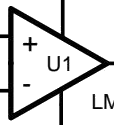
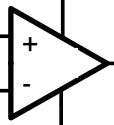
extract_single 支持擦除元件小图文字，处理 amp_3pin~l 图片

diff --git a/data_pipeline/extract_single.py b/data_pipeline/extract_single.py
@@ -2,19 +2,29 @@ import os
 os.environ["ORT_DISABLE_CUDA"] = "1"
 import json
 from PIL import Image, ImageDraw
-from rembg import remove
-import vtracer
 from tqdm import tqdm
 from pathlib import Path
 
+# rembg / vtracer 可选导入：默认 USE_THRESHOLD_BG=True 用不到 rembg，
+# vtracer 仅在注释掉的 SVG 代码里用到。在缺这些包的环境（如 .venv_ocr）
+# 下避免顶部 import 崩溃。
+try:
+    from rembg import remove
+except ImportError:
+    remove = None
+try:
+    import vtracer
+except ImportError:
+    vtracer = None
+
 # ==================== 单个提取配置 ====================
-target_comp_name = "0009_∅124"
+target_comp_name = "0138_U10.2"
 
 # ==================== 修复 bbox 相对坐标 ====================
 fix_bbox_left_padding     =  5
 fix_bbox_right_padding    =  5
-fix_bbox_down_padding     =  0
-fix_bbox_up_padding       =  0
+fix_bbox_down_padding     =  10
+fix_bbox_up_padding       =  10
 
 # ==================== 修复 pin 相对坐标 ====================
 fix_pin = {
@@ -25,6 +35,11 @@ fix_pin = {
 
 # 是否启动图形学去背景，否为 AI，精度更高速度更慢，优先推荐 True
 USE_THRESHOLD_BG = True
+
+# 是否擦除元件小图上的文字（位号/引脚号等，PaddleOCR 检测后置透明）
+REMOVE_TEXT = True
+# OCR 置信度阈值：低于此值的检测框不擦（避免把元件图形误当文字擦掉）
+TEXT_CONF_THR = 0.6
 
 # 引脚外扩边距：裁剪PNG时，在最外侧引脚外额外保留的像素，建议 1~5px
 CROP_MARGIN = 2
@@ -38,6 +53,107 @@ DRAW_PIN_AND_BBOX = True
 
 data_dir = "data/Dataset200/200_train_cases"
 output_root = "outputs/svg"
+
+_OCR_ENGINE = None
+
+def _get_ocr():
+    """懒加载 PaddleOCR（只检测文字框，用于定位后擦除）。兼容 2.x/3.x。"""
+    global _OCR_ENGINE
+    if _OCR_ENGINE is None:
+        from paddleocr import PaddleOCR
+        try:
+            # 3.x 参数
+            _OCR_ENGINE = PaddleOCR(
+                lang="en", device="gpu:0",
+                use_doc_orientation_classify=False,
+                use_doc_unwarping=False,
+                use_textline_orientation=False,
+            )
+        except (TypeError, ValueError):
+            # 2.x 参数
+            _OCR_ENGINE = PaddleOCR(lang="en", use_gpu=True, use_angle_cls=True, show_log=False)
+    return _OCR_ENGINE
+
+
+def _ocr_boxes(ocr, arr):
+    """对图像跑 OCR，返回 [(poly, score), ...]，兼容 paddleocr 2.x/3.x。
+
+    3.x: ocr.predict(arr) -> r[0] = {'rec_polys': [...], 'rec_scores': [...]}
+    2.x: ocr.ocr(arr, cls=True) -> [[box, text, score], ...] 或 [None]
+    """
+    pairs = []
+    # 新版 3.x
+    if hasattr(ocr, "predict"):
+        try:
+            r = ocr.predict(arr)
+            page = r[0] if r else {}
+            polys = list(page.get("rec_polys") or [])
+            scores = list(page.get("rec_scores") or [])
+            return [(poly, score) for poly, score in zip(polys, scores) if score is not None]
+        except Exception:
+            pass
+    # 旧版 2.x
+    try:
+        result = ocr.ocr(arr, cls=True)
+        for page in result or []:
+            if not page:
+                continue
+            for item in page:
+                # item = [box(poly), text, score]
+                if isinstance(item, (list, tuple)) and len(item) >= 3:
+                    pairs.append((item[0], item[2]))
+    except Exception:
+        pass
+    return pairs
+
+
+def remove_text(img, conf_thr=TEXT_CONF_THR, pad=1, max_area_ratio=0.6):
+    """擦除元件小图上的文字（位号/引脚号等）。
+
+    PaddleOCR 检测文字框（置信度 >= conf_thr），把框内（外扩 pad 像素）
+    的 alpha 置 0。透明区域贴白底后再送检，避免透明背景干扰检测。
+
+    面积上限：检测框面积占整图比例 > max_area_ratio 时跳过——元件符号图形
+    常被 OCR 误检为一个大「文字」（占图 100%），若不限制会把整个元件擦掉。
+    :param img: PIL RGBA（已去背景）
+    """
+    import cv2
+    import numpy as np
+    ocr = _get_ocr()
+    # 透明贴白底供 OCR 检测
+    bg = Image.new("RGB", img.size, (255, 255, 255))
+    bg.paste(img, mask=img.split()[3])
+    arr = cv2.cvtColor(np.asarray(bg), cv2.COLOR_RGB2BGR)
+    boxes = _ocr_boxes(ocr, arr)
+    if not boxes:
+        return img
+    arr_rgba = np.asarray(img).copy()
+    h, w = arr_rgba.shape[:2]
+    total_area = float(h * w) or 1.0
+    n_erased = 0
+    for poly, score in boxes:
+        try:
+            if float(score) < conf_thr:
+                continue
+        except (TypeError, ValueError):
+            continue
+        xs = [float(p[0]) for p in poly]
+        ys = [float(p[1]) for p in poly]
+        x1 = max(0, int(min(xs)) - pad)
+        y1 = max(0, int(min(ys)) - pad)
+        x2 = min(w, int(max(xs)) + 1 + pad)
+        y2 = min(h, int(max(ys)) + 1 + pad)
+        if x2 <= x1 or y2 <= y1:
+            continue
+        # 面积上限：过大的框是元件符号误检，跳过
+        if (x2 - x1) * (y2 - y1) > max_area_ratio * total_area:
+            continue
+        arr_rgba[y1:y2, x1:x2, 3] = 0  # alpha 置 0 = 擦除
+        n_erased += 1
+    if n_erased:
+        print(f"    [去文字] 擦除 {n_erased} 处")
+    return Image.fromarray(arr_rgba)
+
 
 def png2svg(img, use_threshold_bg=USE_THRESHOLD_BG, gray_threshold=230):
     """
@@ -58,6 +174,9 @@ def png2svg(img, use_threshold_bg=USE_THRESHOLD_BG, gray_threshold=230):
     else:
         # 原有rembg AI抠除背景
         img_nobg = remove(img)
+    # 去文字：OCR 检测位号/引脚号并擦除（alpha=0）
+    if REMOVE_TEXT:
+        img_nobg = remove_text(img_nobg)
     img_nobg.save(OUTPUT_TRANSPARENT_PNG)
     # ===== 后面保留你原来注释掉的vtracer矢量化代码不变 =====
     # 2. 将透明PNG矢量化为SVG

diff --git a/data_pipeline/remove_text_batch.py b/data_pipeline/remove_text_batch.py
@@ -1,0 +1,138 @@
+"""对 base_comps 中 amp_3pin ~ l 已提取的图片批量去文字。
+
+逻辑与 extract_single.remove_text 一致（含面积上限，避免把元件符号
+误检为大文字而整体擦除）：PaddleOCR 检测文字框（置信度 >= 0.6 且面积
+<= 整图 60%），框内 alpha 置 0，覆盖保存原 png。
+
+用法：
+  .venv_ocr/bin/python data_pipeline/remove_text_batch.py            # 就地处理
+  .venv_ocr/bin/python data_pipeline/remove_text_batch.py --from-backup  # 先从备份恢复再处理
+"""
+
+import argparse
+import os
+import shutil
+
+import cv2
+import numpy as np
+from PIL import Image
+from tqdm import tqdm
+
+BASE = "/data/luoxuan/PCBNet/data/base_comps"
+BACKUP = "/tmp/base_comps_before_text"
+TYPE_DIRS = [
+    "amp_3pin", "amp_5pin", "ant", "battary", "bjt", "bjt_npn", "bjt_pnp",
+    "block", "buzzer", "c", "circle_header", "crystal", "crystal_2pin",
+    "crystal_3pin", "crystal_4pin", "d", "dc", "esd", "fuse", "gnd", "jumper", "l",
+]
+CONF_THR = 0.6
+MAX_AREA_RATIO = 0.6
+PAD = 1
+
+
+def _get_ocr():
+    from paddleocr import PaddleOCR
+    try:
+        return PaddleOCR(lang="en", device="gpu:0",
+                         use_doc_orientation_classify=False,
+                         use_doc_unwarping=False, use_textline_orientation=False)
+    except (TypeError, ValueError):
+        return PaddleOCR(lang="en", use_gpu=True, use_angle_cls=True, show_log=False)
+
+
+def _ocr_boxes(ocr, arr):
+    """兼容 paddleocr 3.x(predict) / 2.x(ocr)。返回 [(poly, score)]。"""
+    pairs = []
+    if hasattr(ocr, "predict"):
+        try:
+            r = ocr.predict(arr)
+            page = r[0] if r else {}
+            polys = list(page.get("rec_polys") or [])
+            scores = list(page.get("rec_scores") or [])
+            return [(p, s) for p, s in zip(polys, scores) if s is not None]
+        except Exception:
+            pass
+    try:
+        for page in (ocr.ocr(arr, cls=True) or []):
+            if not page:
+                continue
+            for item in page:
+                if isinstance(item, (list, tuple)) and len(item) >= 3:
+                    pairs.append((item[0], item[2]))
+    except Exception:
+        pass
+    return pairs
+
+
+def remove_text(ocr, img: Image.Image) -> tuple[Image.Image, int]:
+    bg = Image.new("RGB", img.size, (255, 255, 255))
+    bg.paste(img, mask=img.split()[3])
+    arr = cv2.cvtColor(np.asarray(bg), cv2.COLOR_RGB2BGR)
+    boxes = _ocr_boxes(ocr, arr)
+    if not boxes:
+        return img, 0
+    out = np.asarray(img).copy()
+    h, w = out.shape[:2]
+    total = float(h * w) or 1.0
+    n = 0
+    for poly, score in boxes:
+        try:
+            if float(score) < CONF_THR:
+                continue
+        except (TypeError, ValueError):
+            continue
+        xs = [float(p[0]) for p in poly]
+        ys = [float(p[1]) for p in poly]
+        x1 = max(0, int(min(xs)) - PAD)
+        y1 = max(0, int(min(ys)) - PAD)
+        x2 = min(w, int(max(xs)) + 1 + PAD)
+        y2 = min(h, int(max(ys)) + 1 + PAD)
+        if x2 <= x1 or y2 <= y1:
+            continue
+        if (x2 - x1) * (y2 - y1) > MAX_AREA_RATIO * total:
+            continue  # 过大框 = 元件符号误检，跳过
+        out[y1:y2, x1:x2, 3] = 0
+        n += 1
+    return Image.fromarray(out), n
+
+
+def main():
+    ap = argparse.ArgumentParser()
+    ap.add_argument("--from-backup", action="store_true",
+                    help="先从 /tmp/base_comps_before_text 恢复原始图再处理")
+    args = ap.parse_args()
+
+    if args.from_backup and os.path.isdir(BACKUP):
+        for t in TYPE_DIRS:
+            bd, cd = os.path.join(BACKUP, t), os.path.join(BASE, t)
+            if not os.path.isdir(bd):
+                continue
+            os.makedirs(cd, exist_ok=True)
+            for f in os.listdir(bd):
+                if f.endswith(".png") and "_vis" not in f:
+                    shutil.copy(os.path.join(bd, f), os.path.join(cd, f))
+        print("已从备份恢复原始图")
+
+    ocr = _get_ocr()
+    files = []
+    for t in TYPE_DIRS:
+        d = os.path.join(BASE, t)
+        if not os.path.isdir(d):
+            continue
+        for f in sorted(os.listdir(d)):
+            if f.endswith(".png") and "_vis" not in f:
+                files.append(os.path.join(d, f))
+    print(f"待处理: {len(files)} 张")
+
+    total_erased = 0
+    for p in tqdm(files, desc="去文字"):
+        img = Image.open(p).convert("RGBA")
+        out, n = remove_text(ocr, img)
+        if n:
+            out.save(p)
+            total_erased += n
+    print(f"完成: {len(files)} 张, 共擦除 {total_erased} 处文字")
+
+
+if __name__ == "__main__":
+    main()
